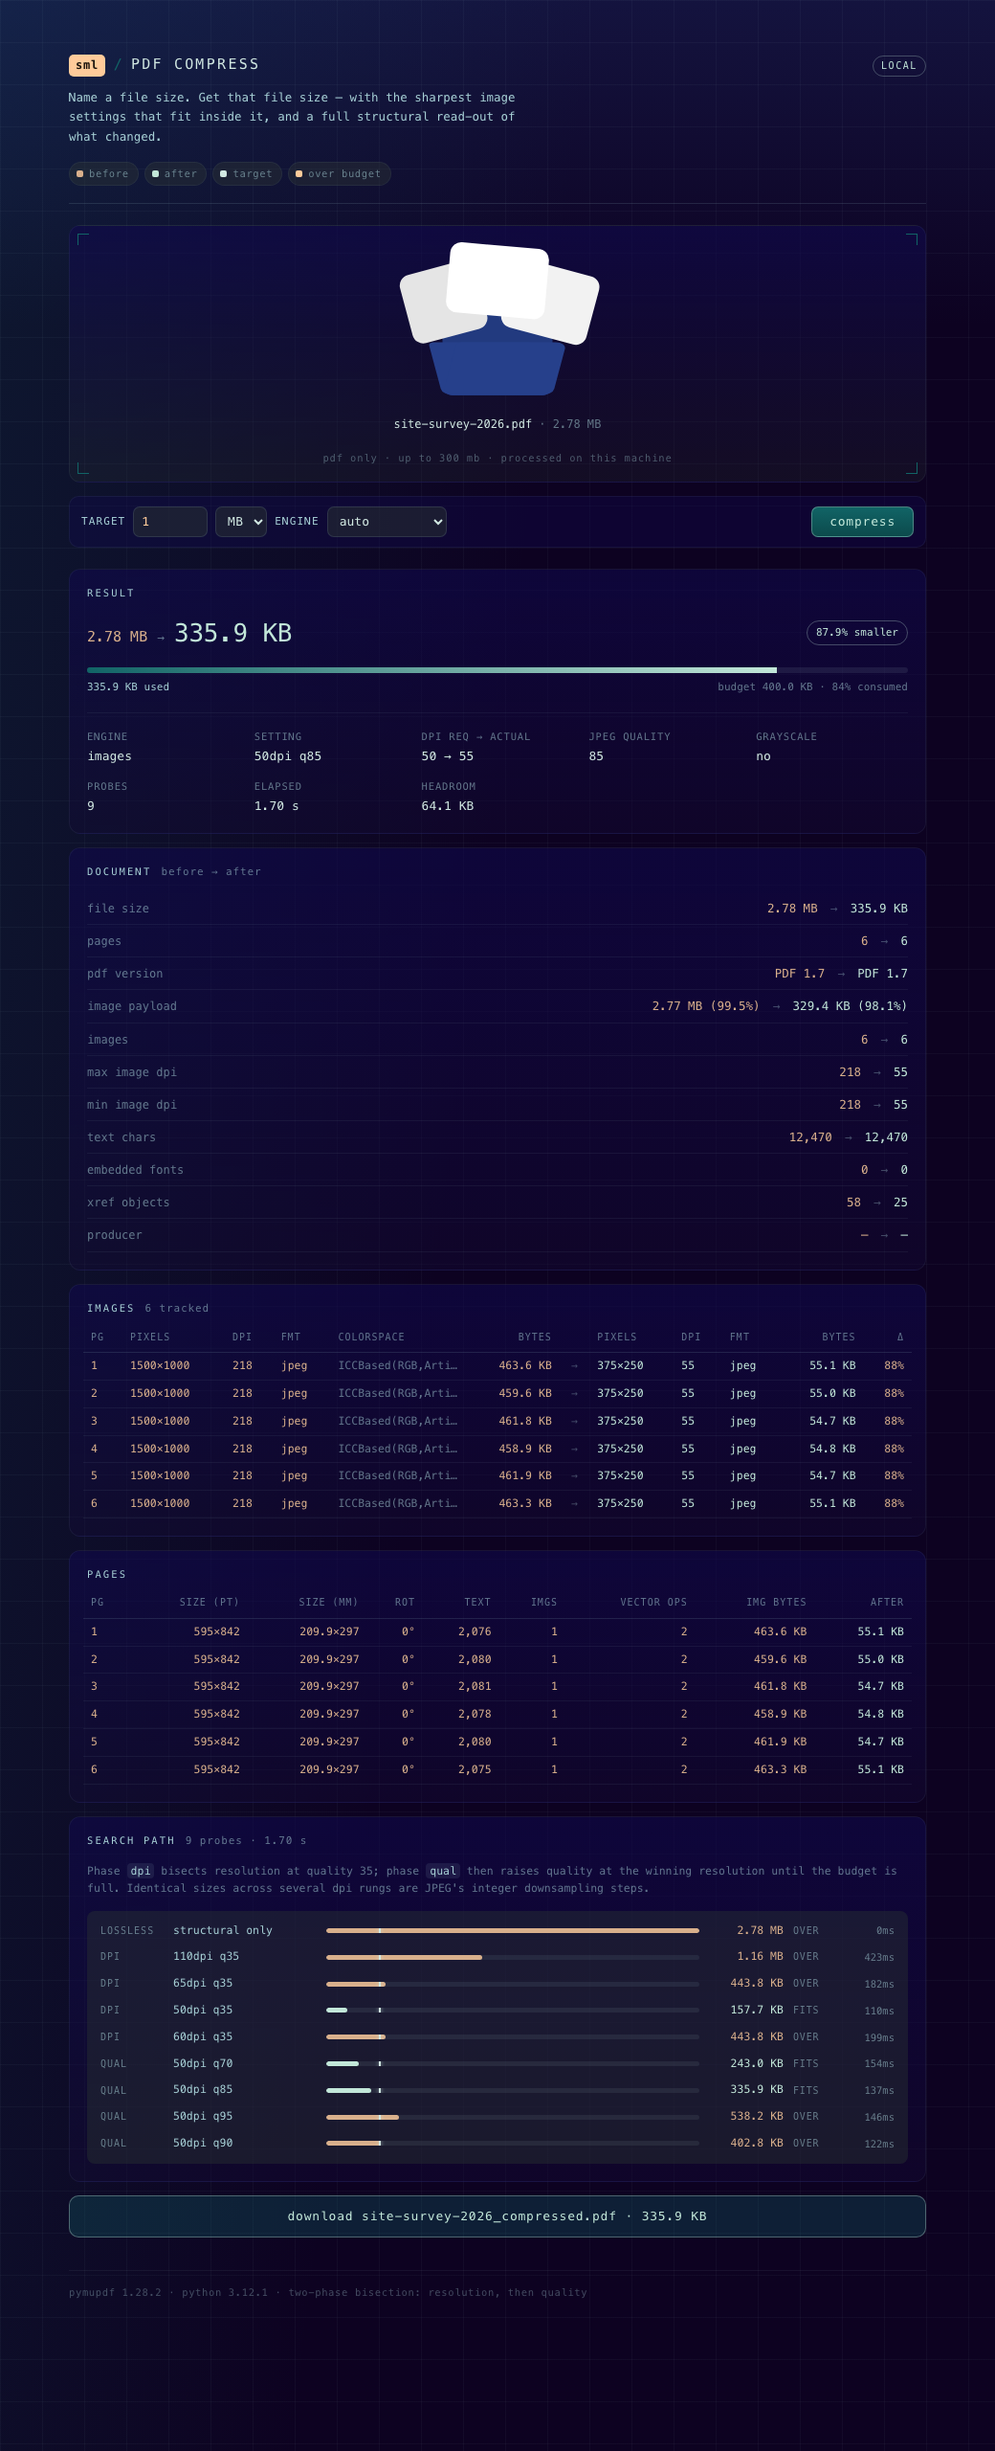
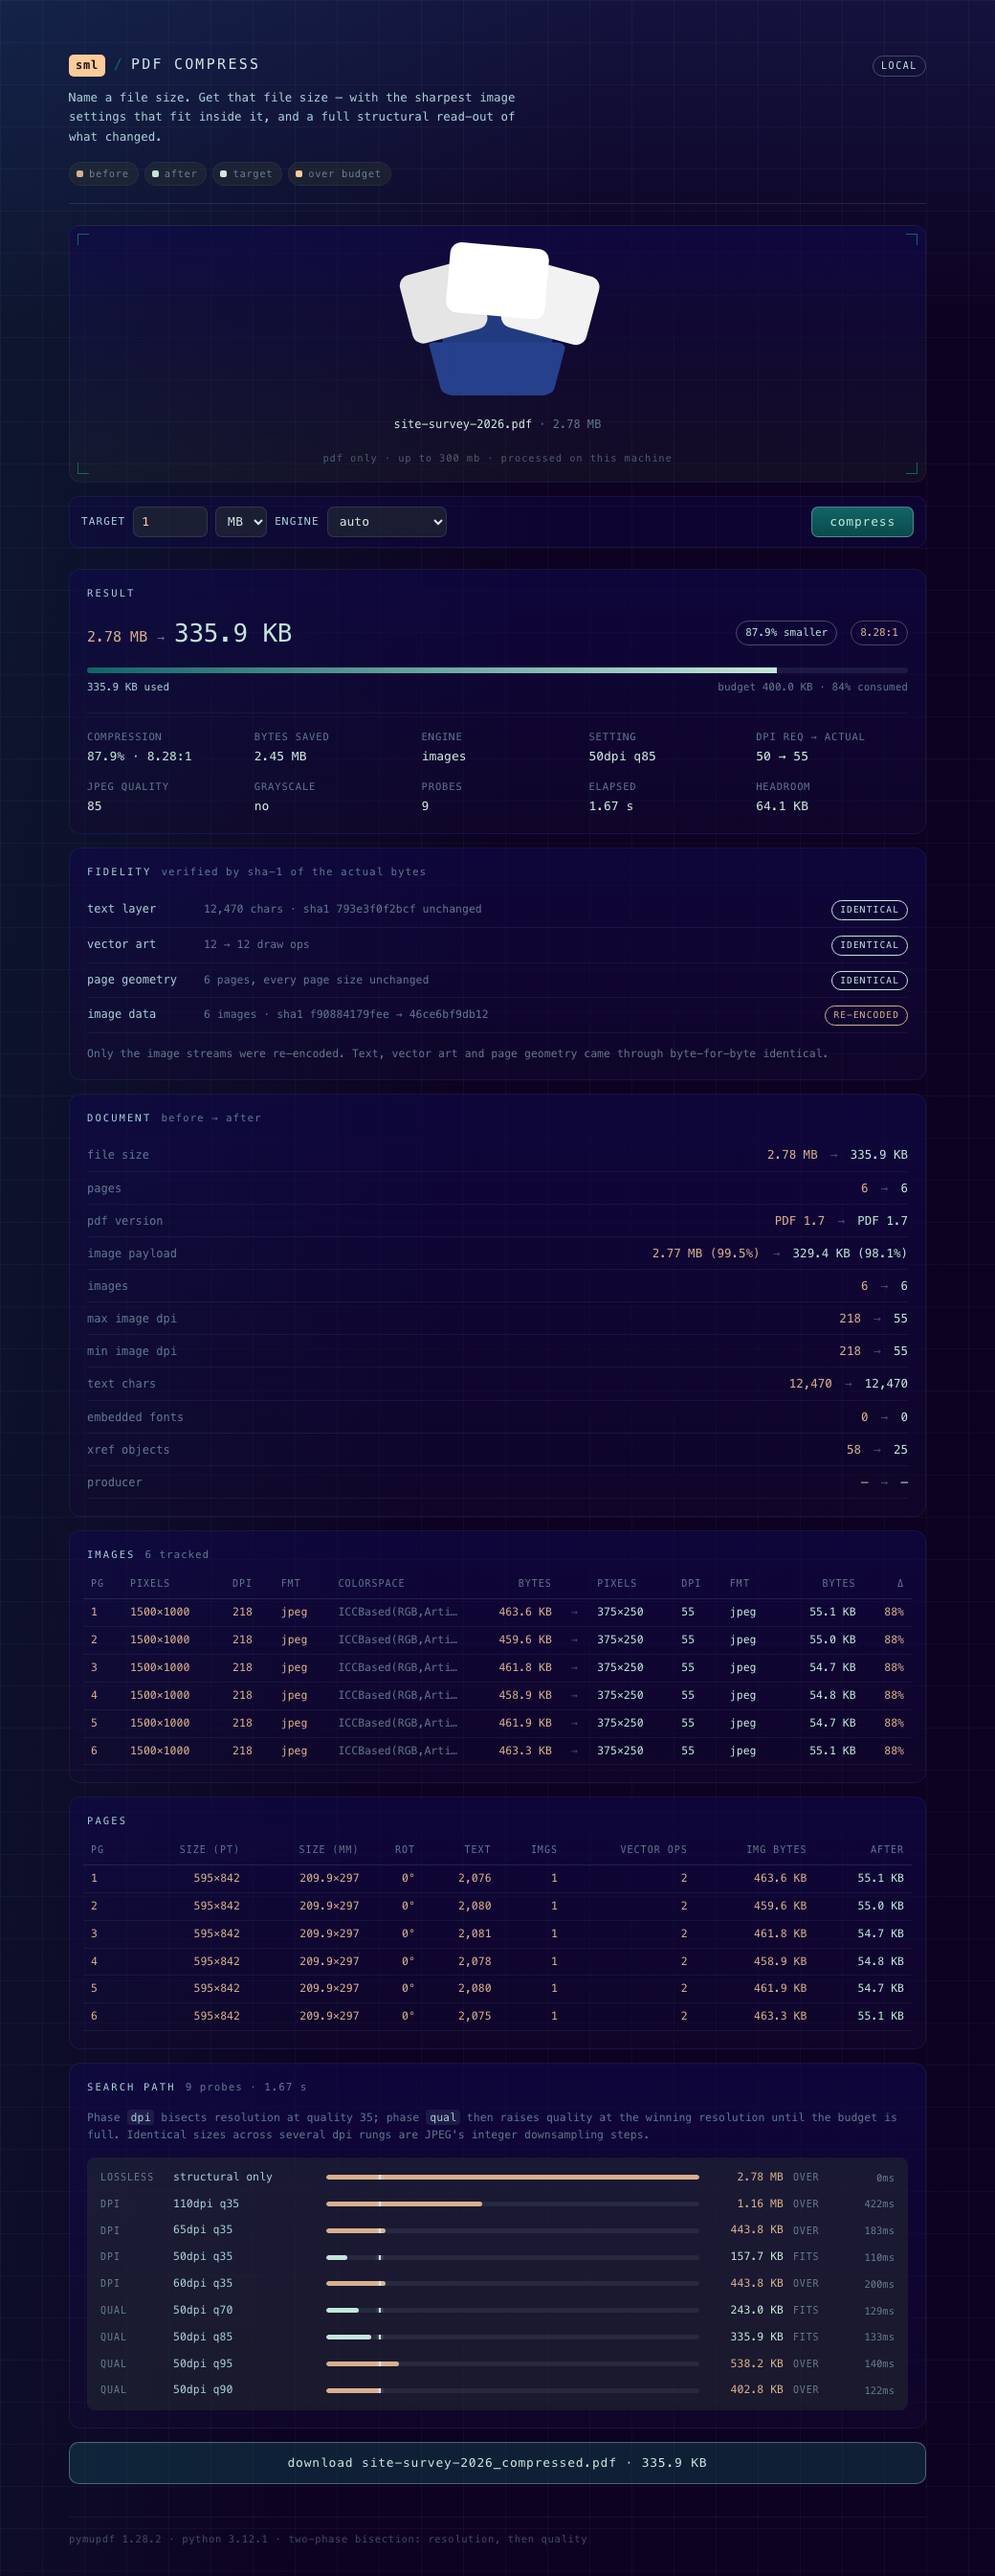
Report compression ratio and hash-verified fidelity claims
Adds two things the report was missing: how much was actually saved, and what
survived intact.

Compression is now stated as a percentage, a ratio (8.28:1) and absolute bytes
saved, in both the UI summary and --stats.

Fidelity is measured rather than asserted. analyze() now records a SHA-1 over
the concatenated page text and over every raw image stream, so before/after
comparison is a digest check: an equal character count would not prove text is
unchanged, an equal digest does. The panel reports each of text layer, vector
art, page geometry, image data and metadata as identical / re-encoded / lost.

This makes the claim precise per engine. The images engine leaves text, vectors
and geometry byte-for-byte identical and only re-encodes image streams. The
lossless pass matches the image digest too, so nothing is re-encoded at all.
The raster engine reports text as lost, because it is. Anything that cannot be
proven is reported as unknown rather than claimed.

diff --git a/web/src/Report.jsx b/web/src/Report.jsx
@@ -30,6 +30,86 @@ function BudgetBar({ used, target, size }) {
   );
 }
 
+/* Fidelity: what survived, and how we know. Text and image payloads are compared by
+   SHA-1 of their real bytes, so "identical" is a checkable claim rather than a vibe. */
+const STATE_LABEL = {
+  identical: 'identical',
+  reencoded: 're-encoded',
+  changed: 'changed',
+  lost: 'lost',
+  stripped: 'stripped',
+  none: 'n/a',
+};
+
+function Fidelity({ f, engine }) {
+  const rows = [];
+
+  if (f.text.present) {
+    rows.push({
+      label: 'text layer',
+      detail: f.text.identical
+        ? `${int(f.text.before)} chars · sha1 ${f.text.sha_before} unchanged`
+        : `${int(f.text.before)} → ${int(f.text.after)} chars`,
+      state: f.text.identical ? 'identical' : f.text.after === 0 ? 'lost' : 'changed',
+    });
+  } else {
+    rows.push({ label: 'text layer', detail: 'none in source — pure scan', state: 'none' });
+  }
+
+  if (f.vectors.present) {
+    rows.push({
+      label: 'vector art',
+      detail: `${int(f.vectors.before)} → ${int(f.vectors.after)} draw ops`,
+      state: f.vectors.identical ? 'identical' : f.vectors.after === 0 ? 'lost' : 'changed',
+    });
+  }
+
+  rows.push({
+    label: 'page geometry',
+    detail: `${f.geometry.pages_before} pages, ${
+      f.geometry.identical ? 'every page size unchanged' : 'page sizes changed'
+    }`,
+    state: f.geometry.identical ? 'identical' : 'changed',
+  });
+
+  if (f.images.present) {
+    rows.push({
+      label: 'image data',
+      detail: f.images.identical
+        ? `${f.images.count_before} images · sha1 ${f.images.sha_before} unchanged`
+        : `${f.images.count_before} images · sha1 ${f.images.sha_before} → ${f.images.sha_after}`,
+      state: f.images.identical ? 'identical' : 'reencoded',
+    });
+  }
+
+  if (f.metadata_stripped) {
+    rows.push({ label: 'metadata', detail: 'producer and XMP removed', state: 'stripped' });
+  }
+
+  const verdict = f.lossless
+    ? 'Nothing was re-encoded. Every image stream, text run and vector path is byte-for-byte identical — the savings came from structure alone.'
+    : engine === 'raster'
+      ? 'Every page was flattened to a single image. Text and vector art are gone; this file is now pictures of pages.'
+      : f.text.identical && f.vectors.identical && f.geometry.identical
+        ? 'Only the image streams were re-encoded. Text, vector art and page geometry came through byte-for-byte identical.'
+        : 'Image streams were re-encoded; see the rows above for what else changed.';
+
+  return (
+    <Section title="fidelity" note="verified by sha-1 of the actual bytes">
+      <div className="rows fid">
+        {rows.map(r => (
+          <div className="fidrow" key={r.label}>
+            <span className="k">{r.label}</span>
+            <span className="detail">{r.detail}</span>
+            <span className={`state ${r.state}`}>{STATE_LABEL[r.state] || r.state}</span>
+          </div>
+        ))}
+      </div>
+      <p className="hintline">{verdict}</p>
+    </Section>
+  );
+}
+
 function Section({ title, note, children }) {
   return (
     <section className="panel">
@@ -58,9 +138,20 @@ export default function Report({ r }) {
             <span className="now">{bytes(r.result_size)}</span>
           </div>
           <span className="badge">{r.saved_pct}% smaller</span>
+          <span className="badge ratio">{r.ratio}:1</span>
         </div>
         <BudgetBar used={r.budget_used_pct} target={r.target} size={r.result_size} />
         <div className="kv">
+          <div>
+            <dt>compression</dt>
+            <dd className="mintv">
+              {r.saved_pct}% · {r.ratio}:1
+            </dd>
+          </div>
+          <div>
+            <dt>bytes saved</dt>
+            <dd>{bytes(r.saved_bytes)}</dd>
+          </div>
           <div>
             <dt>engine</dt>
             <dd>{r.engine}</dd>
@@ -108,6 +199,8 @@ export default function Report({ r }) {
           </p>
         )}
       </Section>
+
+      {r.fidelity && <Fidelity f={r.fidelity} engine={r.engine} />}
 
       <Section title="document" note="before → after">
         <div className="rows">

diff --git a/web/src/index.css b/web/src/index.css
@@ -454,6 +454,55 @@ button:not(:disabled):hover,
   font-size: 11px;
 }
 
+.badge.ratio {
+  margin-left: 0;
+  border-color: rgba(217, 176, 140, 0.35);
+  color: var(--sand);
+}
+
+.kv dd.mintv {
+  color: var(--mint);
+}
+
+/* fidelity rows: claim, evidence, verdict chip */
+
+.fidrow {
+  display: grid;
+  grid-template-columns: 110px 1fr auto;
+  align-items: baseline;
+  gap: 12px;
+  padding: 7px 0;
+  border-bottom: 1px solid var(--line-soft);
+}
+
+.fidrow .k {
+  color: var(--ice);
+  font-size: 12px;
+}
+
+.fidrow .detail {
+  color: var(--dim);
+  font-size: 11.5px;
+  overflow-wrap: anywhere;
+}
+
+.state {
+  padding: 2px 8px;
+  border: 1px solid currentColor;
+  border-radius: 999px;
+  font-size: 9.5px;
+  letter-spacing: 0.12em;
+  text-transform: uppercase;
+  white-space: nowrap;
+}
+
+.state.identical { color: var(--mint); }
+.state.reencoded { color: var(--sand); }
+.state.changed { color: var(--sand); }
+.state.lost { color: var(--peach); }
+.state.stripped { color: var(--ice); }
+.state.none { color: rgba(166, 207, 213, 0.4); }
+
 /* budget bar */
 
 .budget {

diff --git a/compress_pdf.py b/compress_pdf.py
@@ -35,6 +35,7 @@ Usage:
 from __future__ import annotations
 
 import argparse
+import hashlib
 import io
 import json
 import re
@@ -131,8 +132,11 @@ def analyze(data: bytes) -> dict:
         }
 
         fonts: set[str] = set()
+        text_digest = hashlib.sha1()
+        image_digest = hashlib.sha1()
         for pno, page in enumerate(doc):
             text = page.get_text().strip()
+            text_digest.update(text.encode("utf-8", "replace"))
             entries = page.get_images(full=True)
             drawings = 0
             try:
@@ -152,9 +156,12 @@ def analyze(data: bytes) -> dict:
                 dpi_x = round(w / (placed.width / 72)) if placed and placed.width else None
                 dpi_y = round(h / (placed.height / 72)) if placed and placed.height else None
 
-                stored = None
+                stored, stream_sha = None, None
                 try:
-                    stored = len(doc.xref_stream_raw(xref))
+                    raw = doc.xref_stream_raw(xref)
+                    stored = len(raw)
+                    stream_sha = hashlib.sha1(raw).hexdigest()
+                    image_digest.update(raw)
                 except Exception:
                     pass
                 ext, cs_name, comps = None, None, None
@@ -183,12 +190,14 @@ def analyze(data: bytes) -> dict:
                     "format": ext or (str(filt).lstrip("/") if filt else ""),
                     "filter": str(filt).lstrip("/") if filt else "",
                     "bytes": stored,
+                    "sha1": (stream_sha or "")[:12],
                     "has_alpha": bool(smask),
                 })
 
             r = page.rect
             out["pages"].append({
                 "page": pno + 1,
+                "text_sha1": hashlib.sha1(text.encode("utf-8", "replace")).hexdigest()[:12],
                 "width_pt": round(r.width, 1),
                 "height_pt": round(r.height, 1),
                 "width_mm": round(r.width * 25.4 / 72, 1),
@@ -202,6 +211,10 @@ def analyze(data: bytes) -> dict:
             out["doc"]["image_bytes"] += page_img_bytes
 
         out["doc"]["embedded_fonts"] = len(fonts)
+        out["doc"]["text_sha1"] = text_digest.hexdigest()[:12]
+        out["doc"]["image_sha1"] = image_digest.hexdigest()[:12]
+        out["doc"]["geometry"] = [(p["width_pt"], p["height_pt"]) for p in out["pages"]]
+        out["doc"]["vector_ops"] = sum(p["vector_ops"] for p in out["pages"])
         out["doc"]["font_names"] = sorted(fonts)[:12]
         total = out["doc"]["image_bytes"]
         out["doc"]["image_share_pct"] = round(100 * total / len(data), 1) if data else 0.0
@@ -357,6 +370,57 @@ class Result:
         return 100 * self.size / self.target if self.target else 0.0
 
     @property
+    def ratio(self) -> float:
+        """Compression ratio, e.g. 8.28 means 8.28:1."""
+        return self.original_size / self.size if self.size else 0.0
+
+    def fidelity(self) -> dict:
+        """What survived intact, stated so each claim can be checked.
+
+        Text and image payloads are compared by SHA-1 of their actual bytes, not by
+        counting them -- an equal character count would not prove the text is unchanged,
+        but an equal digest does. Anything this can't prove, it reports as unknown rather
+        than asserting.
+        """
+        b, a = self.before.get("doc", {}), self.after.get("doc", {})
+        text_present = bool(b.get("text_chars"))
+        vec_present = bool(b.get("vector_ops"))
+        return {
+            "text": {
+                "present": text_present,
+                "identical": text_present and b.get("text_sha1") == a.get("text_sha1"),
+                "before": b.get("text_chars", 0),
+                "after": a.get("text_chars", 0),
+                "sha_before": b.get("text_sha1", ""),
+                "sha_after": a.get("text_sha1", ""),
+            },
+            "images": {
+                "present": bool(self.before.get("images")),
+                "identical": bool(self.before.get("images"))
+                and b.get("image_sha1") == a.get("image_sha1"),
+                "count_before": len(self.before.get("images", [])),
+                "count_after": len(self.after.get("images", [])),
+                "sha_before": b.get("image_sha1", ""),
+                "sha_after": a.get("image_sha1", ""),
+            },
+            "vectors": {
+                "present": vec_present,
+                "identical": b.get("vector_ops") == a.get("vector_ops"),
+                "before": b.get("vector_ops", 0),
+                "after": a.get("vector_ops", 0),
+            },
+            "geometry": {
+                "identical": b.get("geometry") == a.get("geometry"),
+                "pages_before": b.get("page_count", 0),
+                "pages_after": a.get("page_count", 0),
+            },
+            "metadata_stripped": bool(b.get("producer") or b.get("creator")) and not (
+                a.get("producer") or a.get("creator")
+            ),
+            "lossless": self.engine == "lossless",
+        }
+
+    @property
     def pages(self) -> int:
         return self.before.get("doc", {}).get("page_count", 0)
 
@@ -375,6 +439,9 @@ class Result:
             "original_size": self.original_size,
             "result_size": self.size,
             "saved_pct": round(self.saved_pct, 1),
+            "saved_bytes": self.original_size - self.size,
+            "ratio": round(self.ratio, 2),
+            "fidelity": self.fidelity(),
             "budget_used_pct": round(self.accuracy_pct, 1),
             "headroom": self.target - self.size,
             "engine": self.engine,
@@ -487,13 +554,48 @@ def print_stats(r: Result) -> None:
                   f"{human(im['bytes']):>10}   {a_px:>13} {str(a_dpi):>5} {a_fmt:>6} "
                   f"{a_bytes:>10}  {delta:>8}")
 
+    f = r.fidelity()
+    print("\n  fidelity  (verified by sha-1 of the actual bytes)")
+    claims = []
+    if f["text"]["present"]:
+        claims.append(("text layer",
+                       f'{f["text"]["before"]:,} chars · sha1 {f["text"]["sha_before"]}'
+                       + (" unchanged" if f["text"]["identical"]
+                          else f' -> {f["text"]["sha_after"]}'),
+                       "IDENTICAL" if f["text"]["identical"]
+                       else "LOST" if not f["text"]["after"] else "CHANGED"))
+    else:
+        claims.append(("text layer", "none in source — pure scan", "N/A"))
+    if f["vectors"]["present"]:
+        claims.append(("vector art",
+                       f'{f["vectors"]["before"]:,} -> {f["vectors"]["after"]:,} draw ops',
+                       "IDENTICAL" if f["vectors"]["identical"]
+                       else "LOST" if not f["vectors"]["after"] else "CHANGED"))
+    claims.append(("page geometry",
+                   f'{f["geometry"]["pages_before"]} pages, '
+                   + ("every page size unchanged" if f["geometry"]["identical"]
+                      else "page sizes changed"),
+                   "IDENTICAL" if f["geometry"]["identical"] else "CHANGED"))
+    if f["images"]["present"]:
+        claims.append(("image data",
+                       f'{f["images"]["count_before"]} images · sha1 {f["images"]["sha_before"]}'
+                       + (" unchanged" if f["images"]["identical"]
+                          else f' -> {f["images"]["sha_after"]}'),
+                       "IDENTICAL" if f["images"]["identical"] else "RE-ENCODED"))
+    if f["metadata_stripped"]:
+        claims.append(("metadata", "producer and XMP removed", "STRIPPED"))
+    for label, detail, state in claims:
+        print(f"    {label:<15}{detail:<58}{state:>11}")
+
     print(f"\n  search path ({len(r.trace)} probes, {r.elapsed_ms} ms total)")
     for t in r.trace:
         label = ("lossless" if t["phase"] == "lossless"
                  else f"{t['phase']} {t['dpi']}dpi q{t['quality']}{' gray' if t['gray'] else ''}")
         print(f"    {label:<28} {human(t['bytes']):>10}  "
               f"{'fits' if t['fits'] else 'too big':<8} {t['ms']:>5} ms")
-    print(f"\n  budget: {human(r.size)} of {human(r.target)} "
+    print(f"\n  compression: {r.saved_pct:.1f}% smaller, {r.ratio:.2f}:1, "
+          f"{human(r.original_size - r.size)} saved")
+    print(f"  budget: {human(r.size)} of {human(r.target)} "
           f"({r.accuracy_pct:.1f}% used, {human(r.target - r.size)} spare)")
 
 

diff --git a/README.md b/README.md
@@ -74,7 +74,8 @@ QUAL       50dpi q90         ███                 402.8 KB  OVER
 
 | Panel | What's in it |
 |:--|:--|
-| **result** | before → after, budget consumed, engine, setting, DPI requested → actual, quality, probe count, elapsed |
+| **result** | before → after, compression percentage and ratio, bytes saved, budget consumed, engine, setting, DPI requested → actual, quality, probe count, elapsed |
+| **fidelity** | what survived intact — text layer, vector art, page geometry, image data, metadata — each with a verdict of `identical` / `re-encoded` / `lost` |
 | **document** | file size, pages, PDF version, image payload and its share of the file, image count, max/min DPI, text characters, embedded fonts, xref objects, producer — all before → after |
 | **images** | every embedded image: pixel dimensions, effective DPI, format, colorspace, stored bytes → after, plus per-image delta |
 | **pages** | per page: size in points *and* millimetres, rotation, text characters, image count, vector operations, image bytes before → after |
@@ -82,6 +83,25 @@ QUAL       50dpi q90         ███                 402.8 KB  OVER
 
 Colour is load-bearing: sand is always a *before* value, mint is always *after*, peach
 means over budget.
+
+### Lossless claims you can check
+
+"Lossless" is usually a marketing word. Here it is a measurement. Text runs and image
+streams are compared by **SHA-1 of their actual bytes**, before and after — an identical
+character count would not prove text is unchanged, but an identical digest does.
+
+```
+text layer      12,470 chars · sha1 793e3f0f2bcf unchanged        IDENTICAL
+vector art      12 -> 12 draw ops                                 IDENTICAL
+page geometry   6 pages, every page size unchanged                 IDENTICAL
+image data      6 images · sha1 f90884179fee -> 46ce6bf9db12      RE-ENCODED
+```
+
+So on a typical document the honest claim is precise: *only the image streams were
+re-encoded; text, vector art and page geometry came through byte-for-byte identical.*
+When the lossless pass alone meets your target, the image digest matches too and nothing
+was re-encoded at all. When the raster engine has to be used, text is reported as `LOST` —
+because it is. Anything the tool cannot prove, it does not assert.
 
 ## Run it
 
